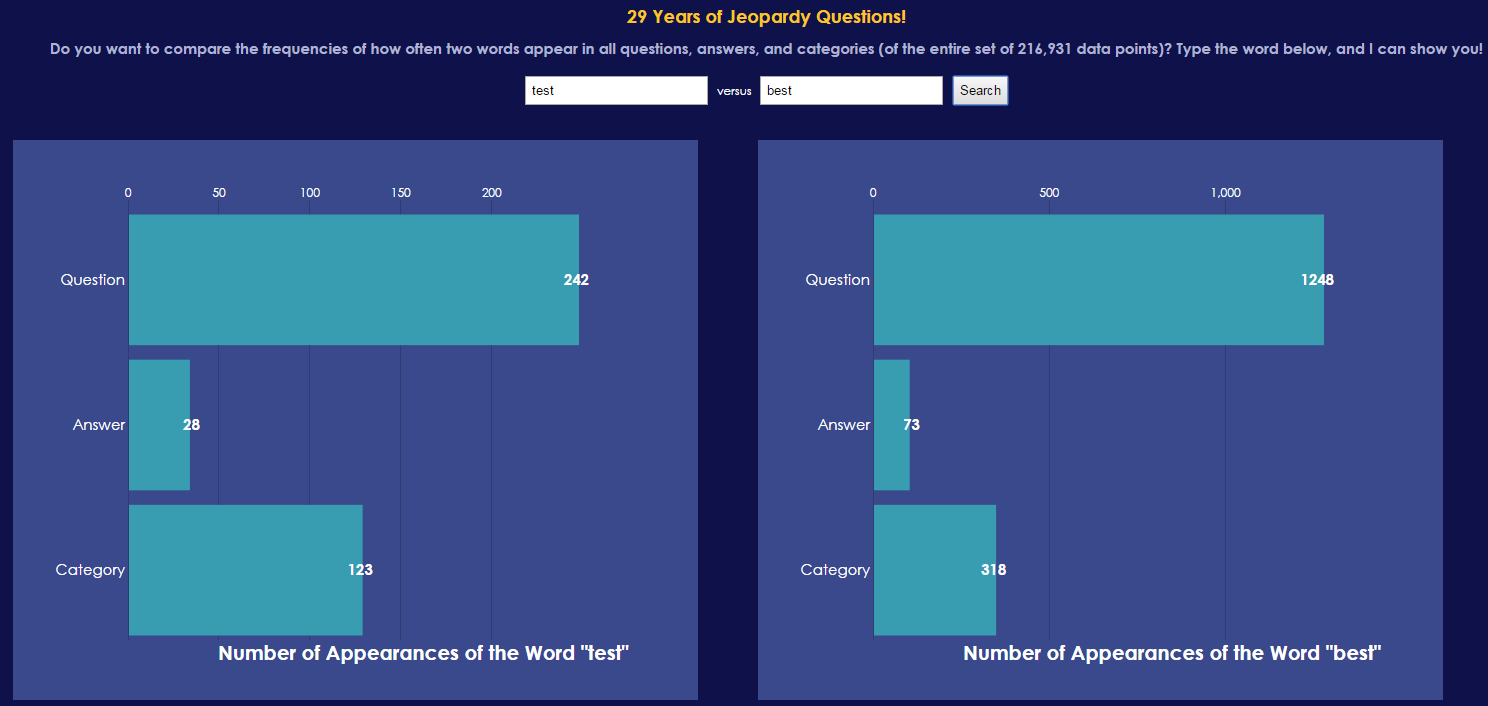
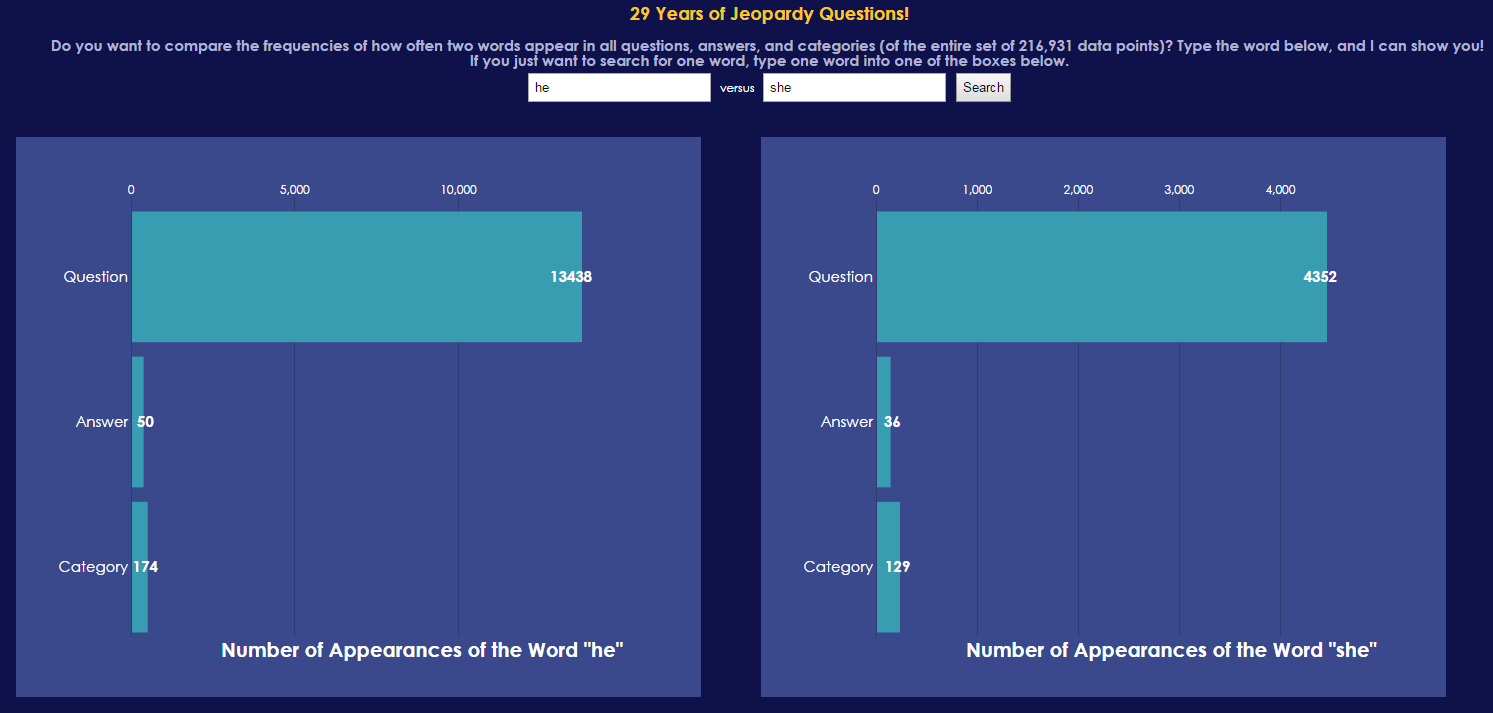
Can now search for either two words at a time or just one word

diff --git a/processBook.html b/processBook.html
@@ -30,7 +30,7 @@ body {
   <div class="processBookEntry">
     <h1 class="processBookH1">Table of Contents</h1 class="processBookH1">
     <p class="processBookText">
-      <ul>
+      <ul class="processBookText">
         <li><a href="#overview"><strong>Overview and Motivation</strong></a></li>
         <li><a href="#week1"><strong>Week 1: Data Preprocessing and Implementing the Visualizations</strong></a></li>
         <li><a href="#week2"><strong>Week 2: Post-Proposal-Feedback Work</strong></a></li>
@@ -65,7 +65,7 @@ body {
   <div class="processBookEntry">
     <h2 class="processBookH2">Preprocessing the Data</h2>
     <p class="processBookText"><strong>Data:</strong> The data I have had to be preprocessed to some extent. Changes I made were:</p>
-    <ul>
+    <ul class="processBookText">
       <li>Changing all instances of the ampersand (&) in the "Question" column to be the word "and."
       <li>Removing any quotation marks from all values in the "Question" column.
       <li>Removing the dollar signs from the values of questions to allow d3 to sort the values in numerical order.
@@ -310,18 +310,24 @@ body {
 
   <div class="processBookEntry">
     <h2 class="processBookH2">Feedback from Project Presentation</h2>
-    <p class="processBookText"><strong>Design Evolution and Implementation:</strong> The feedback that I received from the project presentations in class last night (12/1) was wonderful. The suggestions I received werel:
-      <ul>
+    <p class="processBookText">
+      <strong>Design Evolution and Implementation:</strong> The feedback that I received from the project presentations in class last night (12/1) was wonderful. The suggestions I received were:
+    </p>
+      <ul class="processBookText">
         <li>Let the user compare the frequencies of two words, so allow for side-by-side searching.</li>
         <li>Show trends over time, meaning show how often words appear in questions as time has passed.</li>
       </ul>
-      I really liked both of these suggestions and have already implemented one:
+      <p class="processBookText">
+        The first suggestion was made after someone asked me what interesting things I noticed in the data, and I noted how the word "he" appears in many more questions than the word "she." This lead to the idea of comparing side by side, in addition to searching for just one word. I really liked both of these suggestions and have already implemented one (you can still search for just one word, but now you have the option to compare the results for two words as well):
+      </p>
       <center>
         <img src="images/comparingwordfrequencies.png" width="500">
         <br>
         <div class="processBookSub">You can now see how often a word appears in the data set and compare it to another word's number of appearances.</div>
       </center>
-      I plan on implementing the second suggested feature as soon as I can.
+      <p class="processBookText">
+        I plan on implementing the second suggested feature as soon as I can.
+      </p>
     </p>
   </div>
 

diff --git a/scripts.js b/scripts.js
@@ -67,7 +67,6 @@ function getVizName(vizNumber){
 function validateForm(shouldNotBeEmpty) {
   var usersWord = document.getElementById(shouldNotBeEmpty).value;
   if (usersWord==null || usersWord== "" || usersWord.indexOf(" ") > -1) {
-    alert("Please enter a singular word to search for.");
     return false;
   } else return true;
 }
@@ -119,9 +118,10 @@ function findWordMatchesInDataSet(){
 // set. Finds number of matches in questions, answers, and categories
 function findWordPairMatchesInDataSet(){
   // If form is invalid, don't do the search:
-  if(!validateForm("wordToSearchFor1") || !validateForm("wordToSearchFor2")){
+  if(!validateForm("wordToSearchFor1") && !validateForm("wordToSearchFor2")){
+    alert("Please enter a singular word to search for.");
     return;
-  }
+  } 
 
   // Remove old visualization
   d3.selectAll(".countWordsVis")
@@ -143,10 +143,19 @@ function findWordPairMatchesInDataSet(){
     var wordToSearchFor2 = document.getElementById('wordToSearchFor2').value;
     // Array with number of matches
     var numberOfMatchesFound2 = findMatches(data, wordToSearchFor2);
-    
-    // Now, build the visualization based on the data:
-    buildWordMatchComparisonBarVis(numberOfMatchesFound1, 50, wordToSearchFor1);
-    buildWordMatchComparisonBarVis(numberOfMatchesFound2, 50, wordToSearchFor2);
+
+    // How many words did they search for, one or two?
+    if(!validateForm("wordToSearchFor1")) {
+      // Just build one visualization
+      buildWordMatchComparisonBarVis(numberOfMatchesFound2, 50, wordToSearchFor2);
+    } else if(!validateForm("wordToSearchFor2")) {
+      // Just build one visualization
+      buildWordMatchComparisonBarVis(numberOfMatchesFound1, 50, wordToSearchFor1);
+    } else {
+      // Build both visualizations based on the data:
+      buildWordMatchComparisonBarVis(numberOfMatchesFound1, 50, wordToSearchFor1);
+      buildWordMatchComparisonBarVis(numberOfMatchesFound2, 50, wordToSearchFor2);
+    }
   });
 }
 

diff --git a/compareWordFrequencies.html b/compareWordFrequencies.html
@@ -16,7 +16,7 @@
   <div id="wrapper">
     <center>
       <div id="directionsBox">
-        <h2>Do you want to compare the frequencies of how often two words appear in all questions, answers, and categories (of the entire set of 216,931 data points)? Type the word below, and I can show you!</h2>
+        <h2>Do you want to compare the frequencies of how often two words appear in all questions, answers, and categories (of the entire set of 216,931 data points)? Type the word below, and I can show you! <br> If you just want to search for one word, type one word into one of the boxes below.</h2>
       </div>
       <div id="loadingBoxImage">
         <h2>Now loading...</h2>
